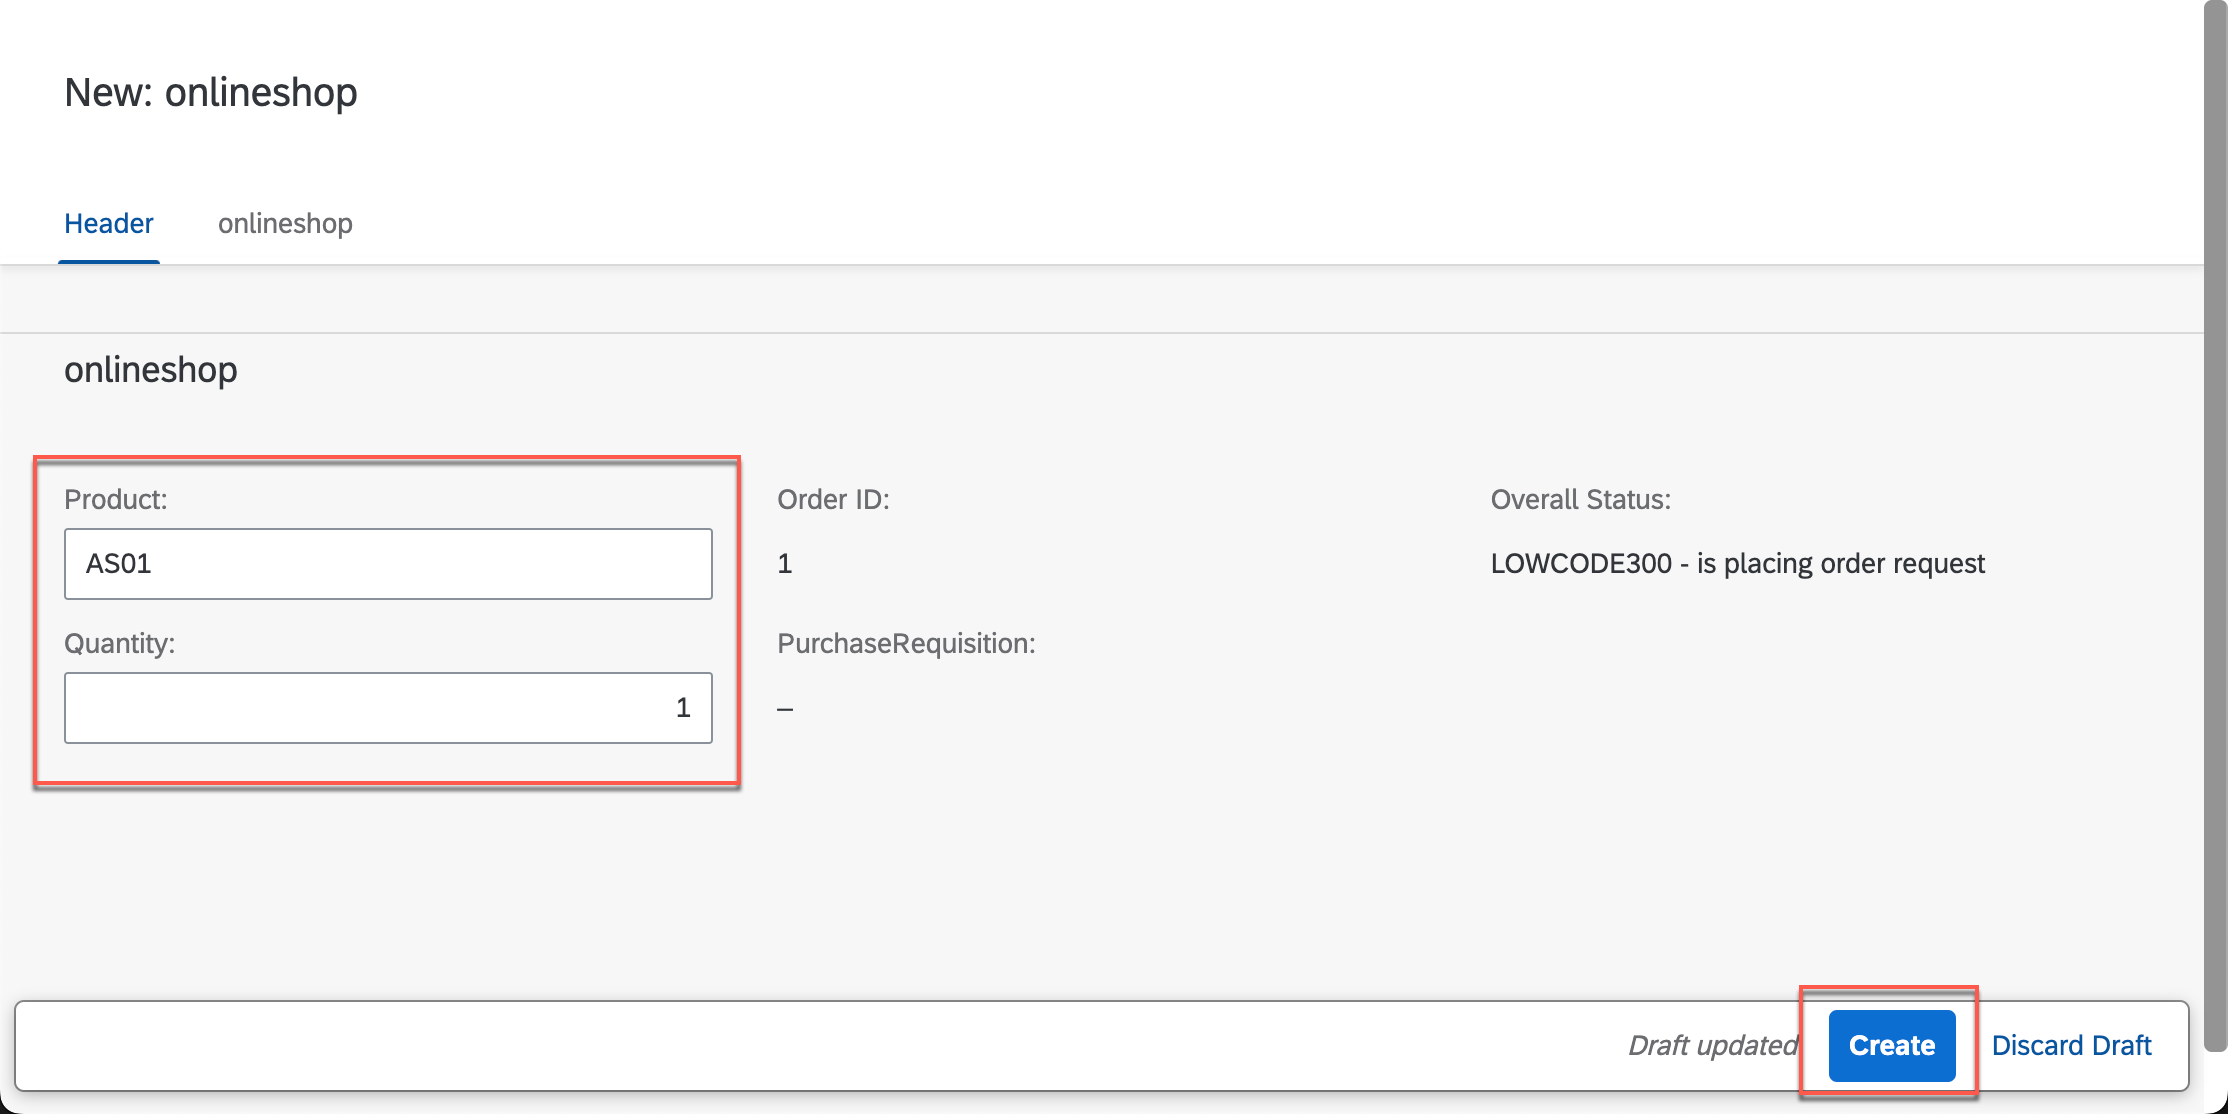
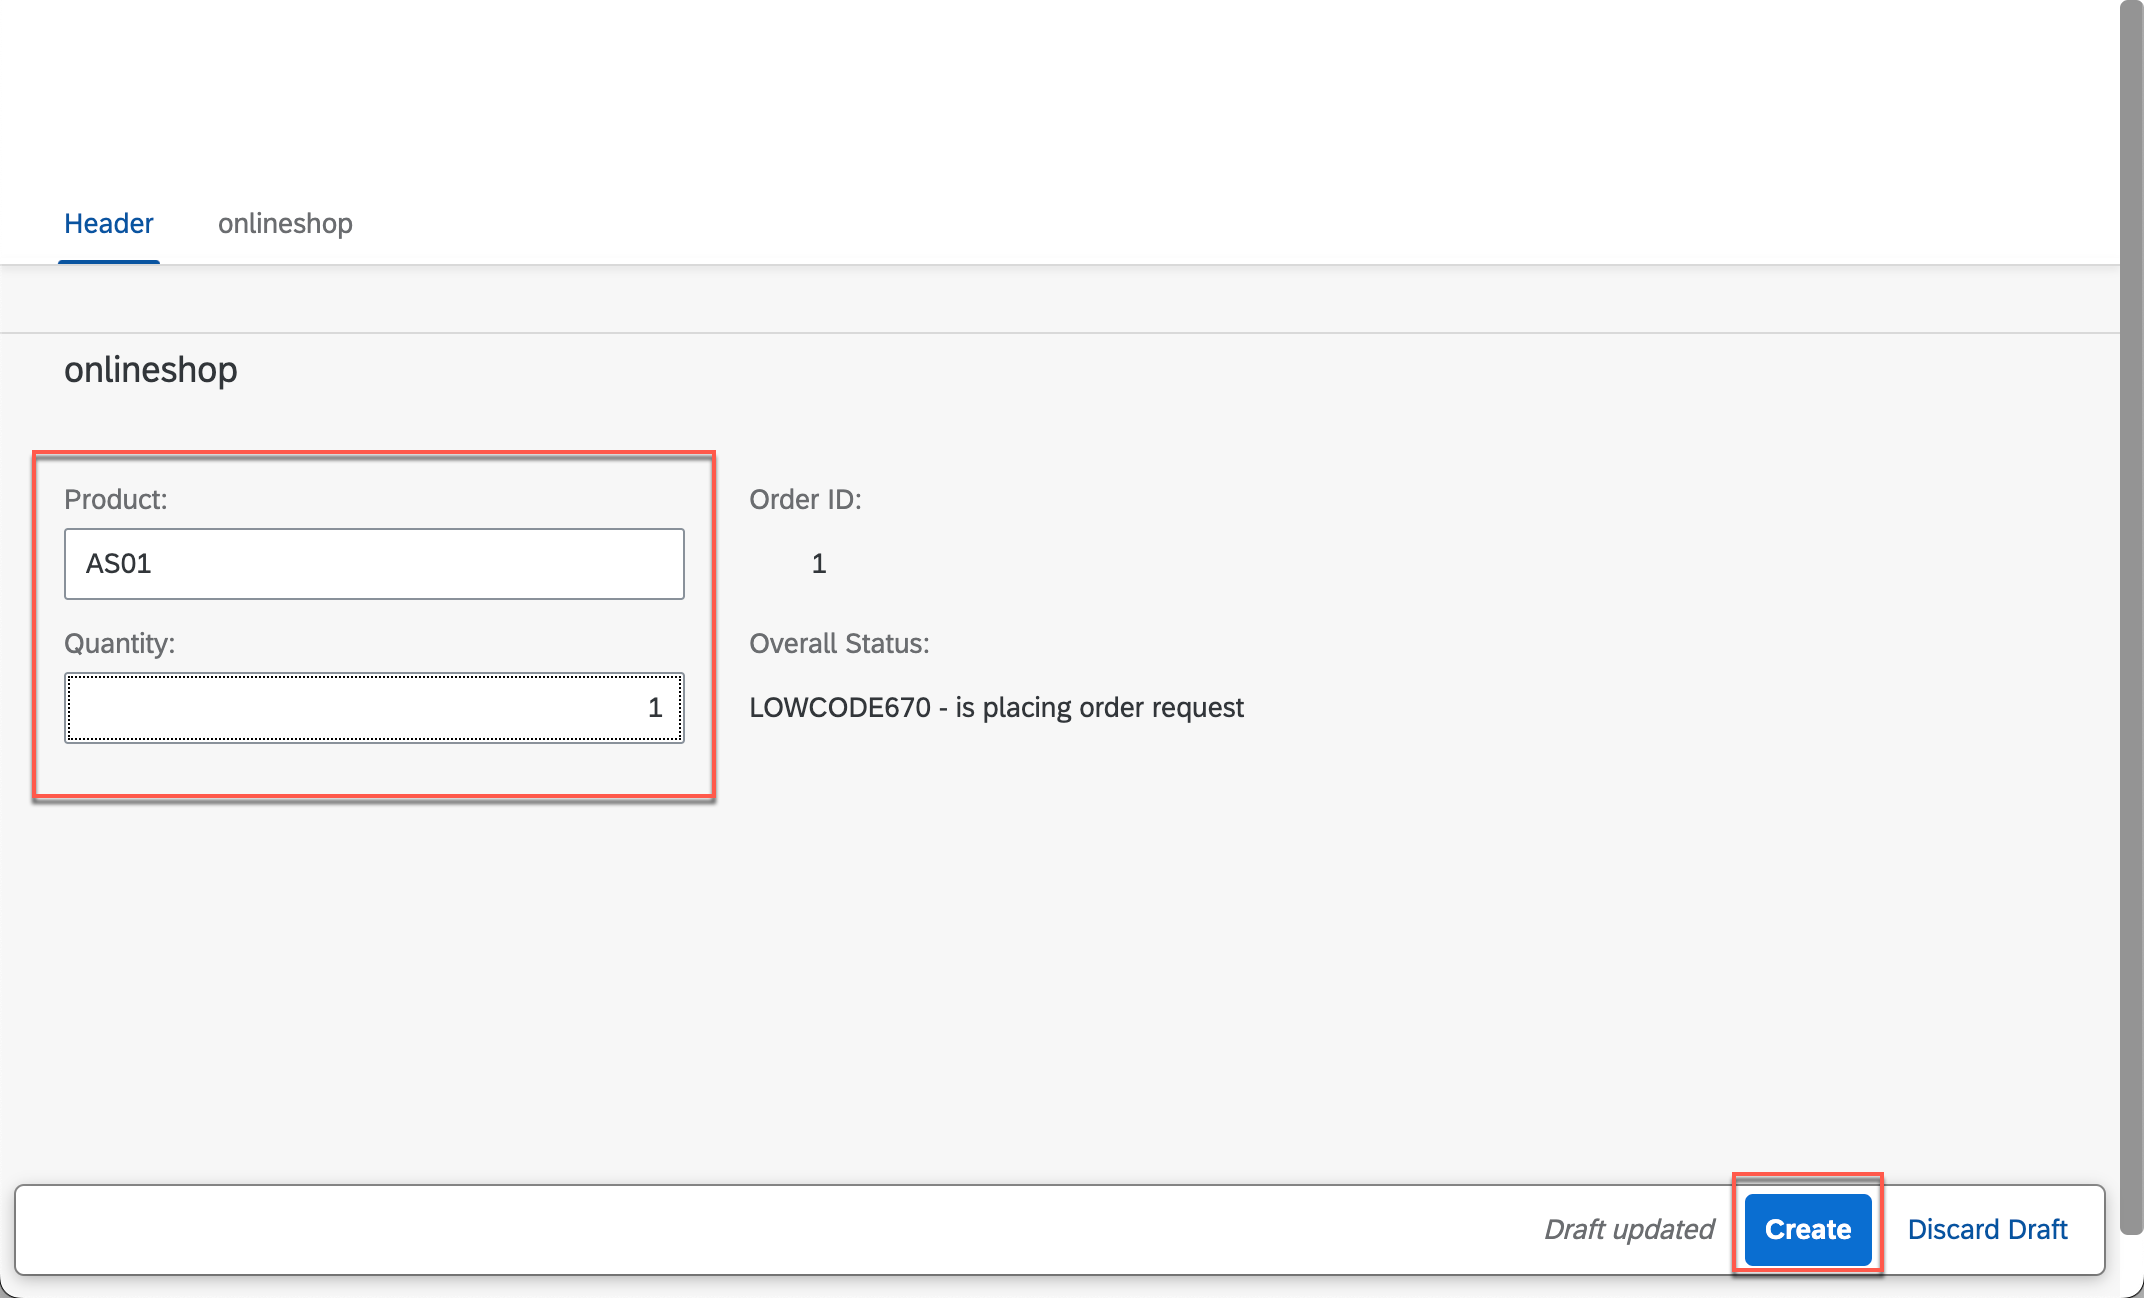
dtermination without pr

diff --git a/exercises/rap/exercises/ex3/README.md b/exercises/rap/exercises/ex3/README.md
@@ -312,289 +312,14 @@ CLASS lcl_OnlineShop DEFINITION INHERITING FROM cl_abap_behavior_handler.
  
   </pre>
 
-  6. Replace the placeholder `###` with your group ID.
+  6. Replace the placeholders `###` with your group ID.
 
   The code reads all entries including the one that was just created. It looks at all the orders whether they already have an `OrderID`, it finds the order with the highest `OrderID`, assuming this is the newest. It adds 1 to the highest `OrderID` and assigns this new number to our new onlineshop record and modifies the database using EML ([Entity Manipulation Language](https://help.sap.com/docs/btp/sap-abap-restful-application-programming-model/entity-manipulation-language-eml))
  
- 7. Save ![save icon](../../images/adt_save.png) the changes. The implementation of the internal action `CreatePurchaseRequisition` will be added in the next section.
+ 7. Save ![save icon](../../images/adt_save.png) and activate ![activate icon](../../images/adt_activate.png) the changes. 
 
 
-## Exercise 3.4: Add an additonal internal action to create a Purchase Requisition
-
-
-1. Add the following line to your behavior implementation `ZBP_R_ONLINESHOP_###` (in the project explorer under **Source Code Library** -> **Classes**, make sure to switch to the `Global Class` tab in the ADT editor)
-
-<pre lang="ABAP">
-CLASS-DATA mapped_purchase_requisition TYPE RESPONSE FOR MAPPED i_purchaserequisitiontp.
-</pre>
-
-Add it below the `public section.` line, so it looks like this:
-
-<pre lang="ABAP">
-  class ZBP_R_ONLINESHOP_### definition
-    public
-    abstract
-    final
-    for behavior of ZR_ONLINESHOP_###.
-
-  public section.
-      CLASS-DATA mapped_purchase_requisition TYPE RESPONSE FOR MAPPED i_purchaserequisitiontp.
-  protected section.
-  private section.
-  ENDCLASS.
-</pre>
-
-2. Save ![save icon](../../images/adt_save.png) the changes.
-
-3. Add the following internal action to your behavior definition **ZR_ONLINESHOP_###** (in the **Project Explorer** under **Core Data Services** -> **Behavior Definitions**) just behind the line for the calculation of the new order id, that you inserted before.
-
-<pre lang="ABAP">
-  internal action CreatePurchaseRequisition result [1] $self;
-</pre>
-
-   ![define_determinations](images/400_define_determinations.png) 
-
-4. Save ![save icon](../../images/adt_save.png) the changes.
-
-5. Click on the icon on the left hand side of the new line and invoke the generation of the new method
-
-  ![define_determinations](images/410_define_determinations.png) 
-
-6. Replace 
-
-<pre lang="ABAP">
-  METHOD CreatePurchaseRequisition.
-  ENDMETHOD.
-</pre>
-
-with the following code:
-
-<pre lang="ABAP">
-  METHOD CreatePurchaseRequisition.
-
-    DATA purchase_requisitions      TYPE TABLE FOR CREATE I_PurchaserequisitionTP.
-    DATA purchase_requisition_items TYPE TABLE FOR CREATE i_purchaserequisitionTP\_PurchaseRequisitionItem.
-    DATA purchase_reqn_acct_assgmts TYPE TABLE FOR CREATE I_PurchaseReqnItemTP\_PurchaseReqnAcctAssgmt.
-    DATA purchase_reqn_item_texts   TYPE TABLE FOR CREATE I_PurchaseReqnItemTP\_PurchaseReqnItemText.
-    DATA update_lines               TYPE TABLE FOR UPDATE zr_onlineshop_###\\OnlineShop.
-
-    "read transfered order instances
-    READ ENTITIES OF zr_onlineshop_### IN LOCAL MODE
-      ENTITY OnlineShop ALL FIELDS WITH CORRESPONDING #( keys )
-      RESULT DATA(OnlineOrders).
-
-    LOOP AT OnlineOrders INTO DATA(OnlineOrder).
-      DATA(n) = sy-tabix.
-
-      "purchase requisition
-      APPEND VALUE #( %cid                    = OnlineOrder-OrderUUID
-                      purchaserequisitiontype = 'NB' ) TO purchase_requisitions.
-
-      "purchase requisition item
-      APPEND VALUE #( %cid_ref = OnlineOrder-OrderUUID
-                      %target  = VALUE #( (
-                                   %cid                        = |My%ItemCID_{ n }|
-                                   plant                       = '1010'  "Plant 01 (DE)
-                                   accountassignmentcategory   = 'U'  "unknown
-*                                  PurchaseRequisitionItemText =      "retrieved automatically from maintained MaterialInfo
-                                   requestedquantity           = '1'
-                                   purchaserequisitionprice    = '100'
-                                   purreqnitemcurrency         = 'EUR'
-                                   Material                    = 'D001'
-                                   materialgroup               = 'A001'
-                                   purchasinggroup             = '001'
-                                   purchasingorganization      = '1010'
-                                   DeliveryDate                = CONV #( cl_abap_context_info=>get_system_date(  ) + 14 )
-                                 ) ) ) TO purchase_requisition_items.
-
-      "purchase requisition account assignment
-      APPEND VALUE #( %cid_ref = |My%ItemCID_{ n }|
-                      %target  = VALUE #( (
-                                   %cid       = |My%AccntCID_{ n }|
-                                   CostCenter = 'JMW-COST'
-                                   GLAccount  = '0000400000'
-                                 ) ) ) TO purchase_reqn_acct_assgmts.
-
-      "purchase requisition item text
-      APPEND VALUE #( %cid_ref = |My%ItemCID_{ n }|
-                      %target  = VALUE #( (
-                                   %cid           = |My%TextCID_{ n }|
-                                   textobjecttype = 'B01'
-                                   language       = 'E'
-                                   plainlongtext  = OnlineOrder-Product
-                                 ) ) ) TO purchase_reqn_item_texts.
-    ENDLOOP.
-
-    "EML deep create statement
-    IF keys IS NOT INITIAL.
-      MODIFY ENTITIES OF i_purchaserequisitiontp
-        ENTITY purchaserequisition
-          CREATE FIELDS ( purchaserequisitiontype )
-            WITH purchase_requisitions
-          CREATE BY \_purchaserequisitionitem
-            FIELDS ( plant
-                     accountassignmentcategory
-                     requestedquantity
-                     purchaserequisitionprice
-                     purreqnitemcurrency
-                     Material
-                     materialgroup
-                     purchasinggroup
-                     purchasingorganization
-                     DeliveryDate
-                   )
-            WITH purchase_requisition_items
-        ENTITY purchaserequisitionitem
-          CREATE BY \_purchasereqnacctassgmt
-            FIELDS ( CostCenter
-                     GLAccount )
-            WITH purchase_reqn_acct_assgmts
-          CREATE BY \_purchasereqnitemtext
-            FIELDS ( plainlongtext )
-            WITH purchase_reqn_item_texts
-        REPORTED DATA(reported_create_pr)
-        MAPPED DATA(mapped_create_pr)
-        FAILED DATA(failed_create_pr).
-    ENDIF.
-
-    "buffer the generated key information
-    "the correct value for PurchaseRequisition has to be calculated in the save sequence using convert key
-    zbp_r_onlineshop_###=>mapped_purchase_requisition-purchaserequisition = mapped_create_pr-purchaserequisition.
-
-    LOOP AT keys INTO DATA(key_update).
-      APPEND VALUE #( %tky          = key_update-%tky
-                      OverallStatus = 'submitted' ) TO update_lines.
-    ENDLOOP.
-
-    MODIFY ENTITIES OF zr_onlineshop_### IN LOCAL MODE
-         ENTITY OnlineShop
-           UPDATE
-           FIELDS ( OverallStatus )
-           WITH update_lines
-         REPORTED reported
-         FAILED failed
-         MAPPED mapped.
-    IF failed IS INITIAL.
-      "Read the changed data for action result
-      READ ENTITIES OF zr_onlineshop_### IN LOCAL MODE
-        ENTITY OnlineShop
-          ALL FIELDS
-          WITH CORRESPONDING #( keys )
-        RESULT DATA(result_read).
-
-      "return result entities
-      result = VALUE #( FOR order_changed IN result_read ( %tky   = order_changed-%tky
-                                                           %param = order_changed ) ).
-    ENDIF.
-
-  ENDMETHOD.
-</pre>
-
-7. Replace the placeholder `###` with your group ID.
-
-8. Save ![save icon](../../images/adt_save.png) and activate ![activate icon](../../images/adt_activate.png) the changes.
-
-## Exercise 3.5: Add unmanaged save
-
-We have to add the use of an unmanaged save to the behavior of our RAP business object since the Purchase Requisition API that we plan to call uses late numbering.
-
-1. Navigate to the behavior definition ZR_ONLINESHOP_### either in the Project Explorer (**Core Data Services** -> **Behavior Definitions**) or by opening it as a development object using the short cut Ctrl+Shift+A.
-
-2. Open the behavior definition and add the statement 
-
-<pre lang="ABAP">
-with unmanaged save 
-</pre>
-
-right after the 
-
-<pre lang="ABAP">
-authorization master ( global ) 
-</pre>
-
-statement.
-
-In addition comment out the statement that specifies the persistent table of our RAP BO `//persistent table zaonlineshop_###` since it is not possible to use both statements in the same behavior definition. 
-
-It should then look like this:
-
-<pre lang="ABAP">
-managed implementation in class ZBP_R_ONLINESHOP_### unique;
-strict ( 2 );
-with draft;
-
-define behavior for ZR_ONLINESHOP_### alias onlineshop
-//persistent table zonlineshop_###
-draft table ZDONLINESHOP_###
-etag master LocalLastChangedAt
-lock master total etag LastChangedAt
-authorization master( global )
-with unmanaged save
-</pre>
-
-3. Save ![save icon](../../images/adt_save.png) and activate all ![activate icon](../../images/adt_activateAll.png) the changes.
-
-4. After having activated your changes select the key word `unmanaged` and select Ctrl + 1 (Command +1 on Mac) to start the code assistant.
-
-![define_determinations](images/420_define_determinations.png) 
-
-This will add a local saver class `lsc_zr_onlineshop_###` to the local classes of your behavior implementation class (in the **Project Explorer** under **Source Code Library** -> **Classes**, in the `Local Types` tab in the ADT Editor). The method `save_modified` is added to the `DEFINITION` and the `IMPLEMENTATION` section of this local class.
-
-<pre lang="ABAP">
-CLASS lsc_zr_onlineshop_### DEFINITION INHERITING FROM cl_abap_behavior_saver.
-
-  PROTECTED SECTION.
-
-  METHODS save_modified REDEFINITION.
-  
-ENDCLASS.
-</pre>
-
-5. Save ![save icon](../../images/adt_save.png) the changes.
-
-6. To implement the `save_modified()` method, replace:
-
-<pre lang="ABAP">
-  METHOD save_modified.
-  ENDMETHOD.
-</pre>
-
-with:
-
-<pre lang="ABAP">
-   METHOD save_modified.
-
-    DATA onlineshop_db TYPE STANDARD TABLE OF zonlineshop_###.
-
-    IF create-onlineshop IS NOT INITIAL.
-      onlineshop_db = CORRESPONDING #( create-onlineshop MAPPING FROM ENTITY ).
-
-      "determine the ID of the created purchase requisition and store it as a reference in the created order
-      LOOP AT onlineshop_db ASSIGNING FIELD-SYMBOL(&#60;order&#62;).
-        READ TABLE zbp_r_onlineshop_###=>mapped_purchase_requisition-purchaserequisition ASSIGNING FIELD-SYMBOL(&#60;pr_mapped&#62;)
-                   WITH KEY cid COMPONENTS %cid = &#60;order&#62;-order_uuid.
-        IF sy-subrc = 0.
-          CONVERT KEY OF i_purchaserequisitiontp FROM &#60;pr_mapped&#62;-%pid TO DATA(pr_key).
-          &#60;order&#62;-purchase_requisition = pr_key-purchaserequisition.
-        ENDIF.
-      ENDLOOP.
-
-      INSERT zonlineshop_### FROM TABLE @onlineshop_db.
-    ENDIF.
-
-    LOOP AT delete-onlineshop INTO DATA(onlineshop_delete) WHERE OrderUUID IS NOT INITIAL.
-      DELETE FROM zonlineshop_### WHERE order_uuid = @onlineshop_delete-OrderUUID.
-      DELETE FROM zdonlineshop_### WHERE orderuuid = @onlineshop_delete-OrderUUID.
-    ENDLOOP.
-
-  ENDMETHOD.
-</pre>
-
-7. Replace the placeholder `###` with your group ID.
-
-8. Save ![save icon](../../images/adt_save.png) and activate ![activate icon](../../images/adt_activate.png) the changes.
-
-## Exercise 3.6: Check your preview application
+## Exercise 3.4: Check your preview application
 
  1. Open the service binding `ZUI_ONLINESHOP_O4_###` (**Business Services** -> **Service Bindings**) to test your implementation by using the ADT Fiori preview. Alternatively, if you keep the browser window open with the Fiori preview, you can just refresh the browser and it will automatically reflect the new code.
 
@@ -603,7 +328,7 @@ with:
  ![define_determinations](images/313_define_determinations.png) 
   
   
-  The order id gets calculated and a new purchase requisition gets created in S/4HANA and you should see it in the result:
+  You should see somthing like this in the result, including the `Order ID`:
 
  ![define_determinations](images/314_define_determinations.png) 
 
